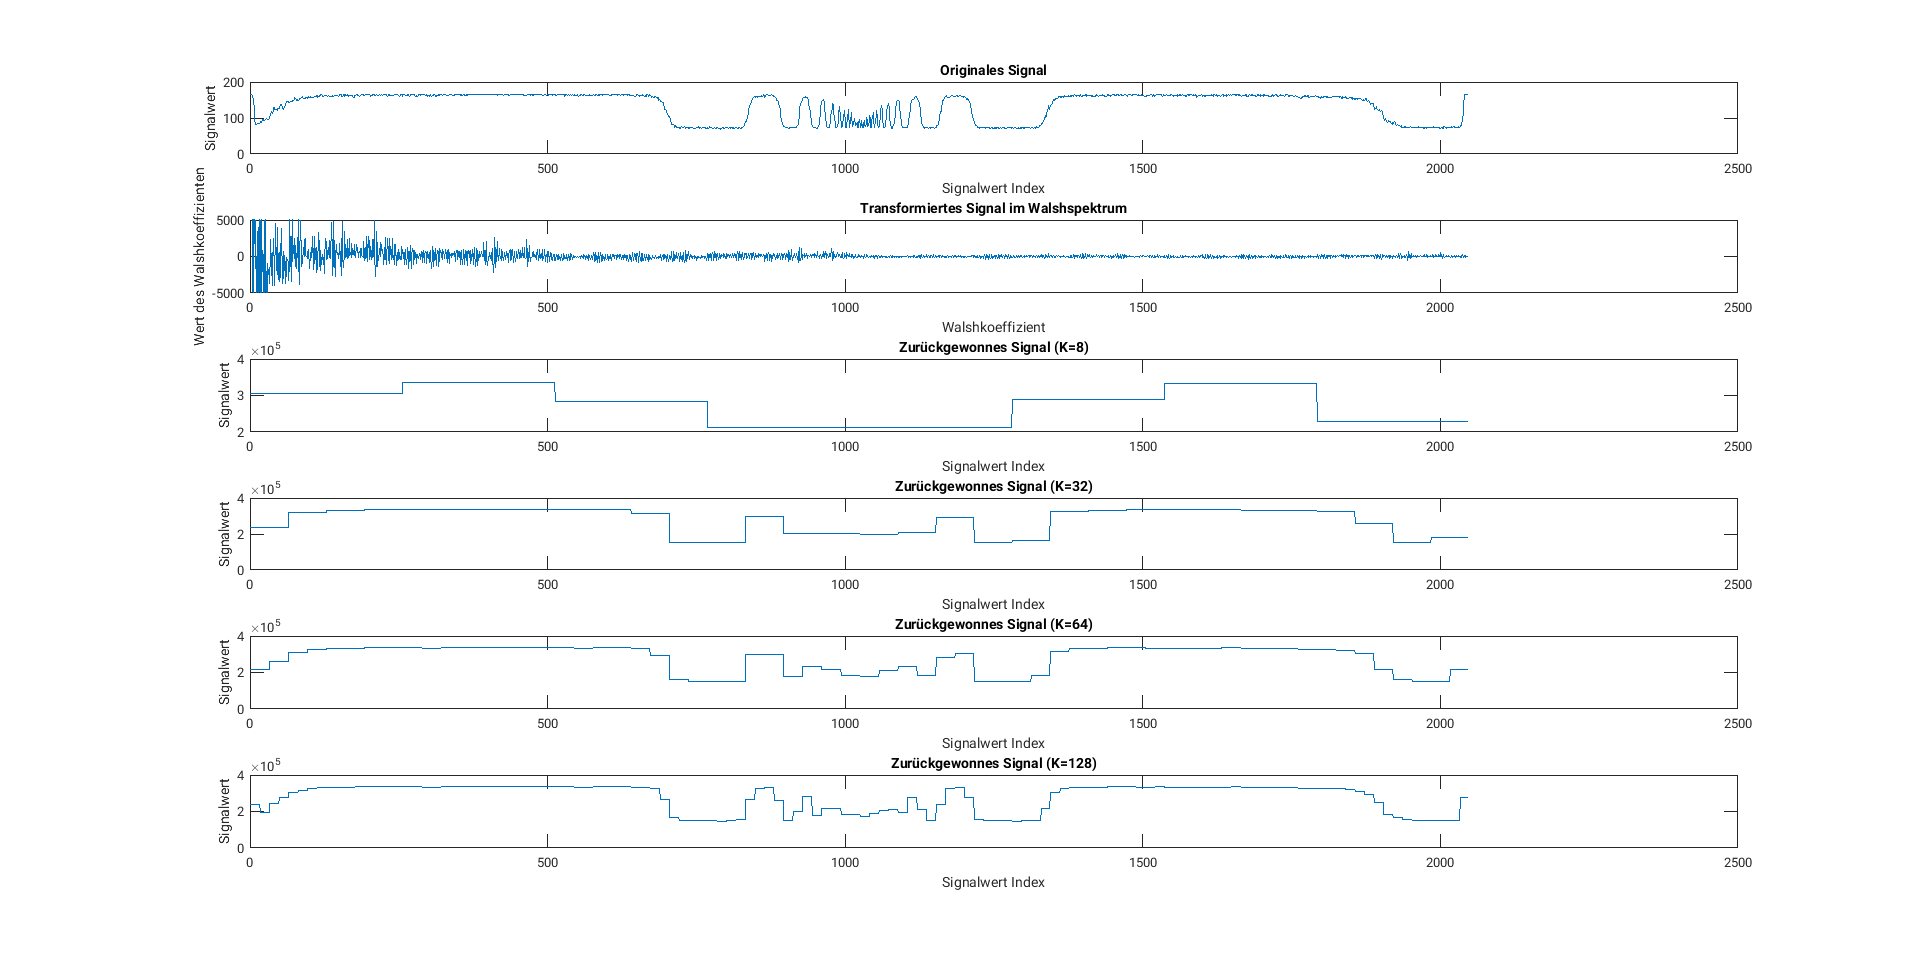
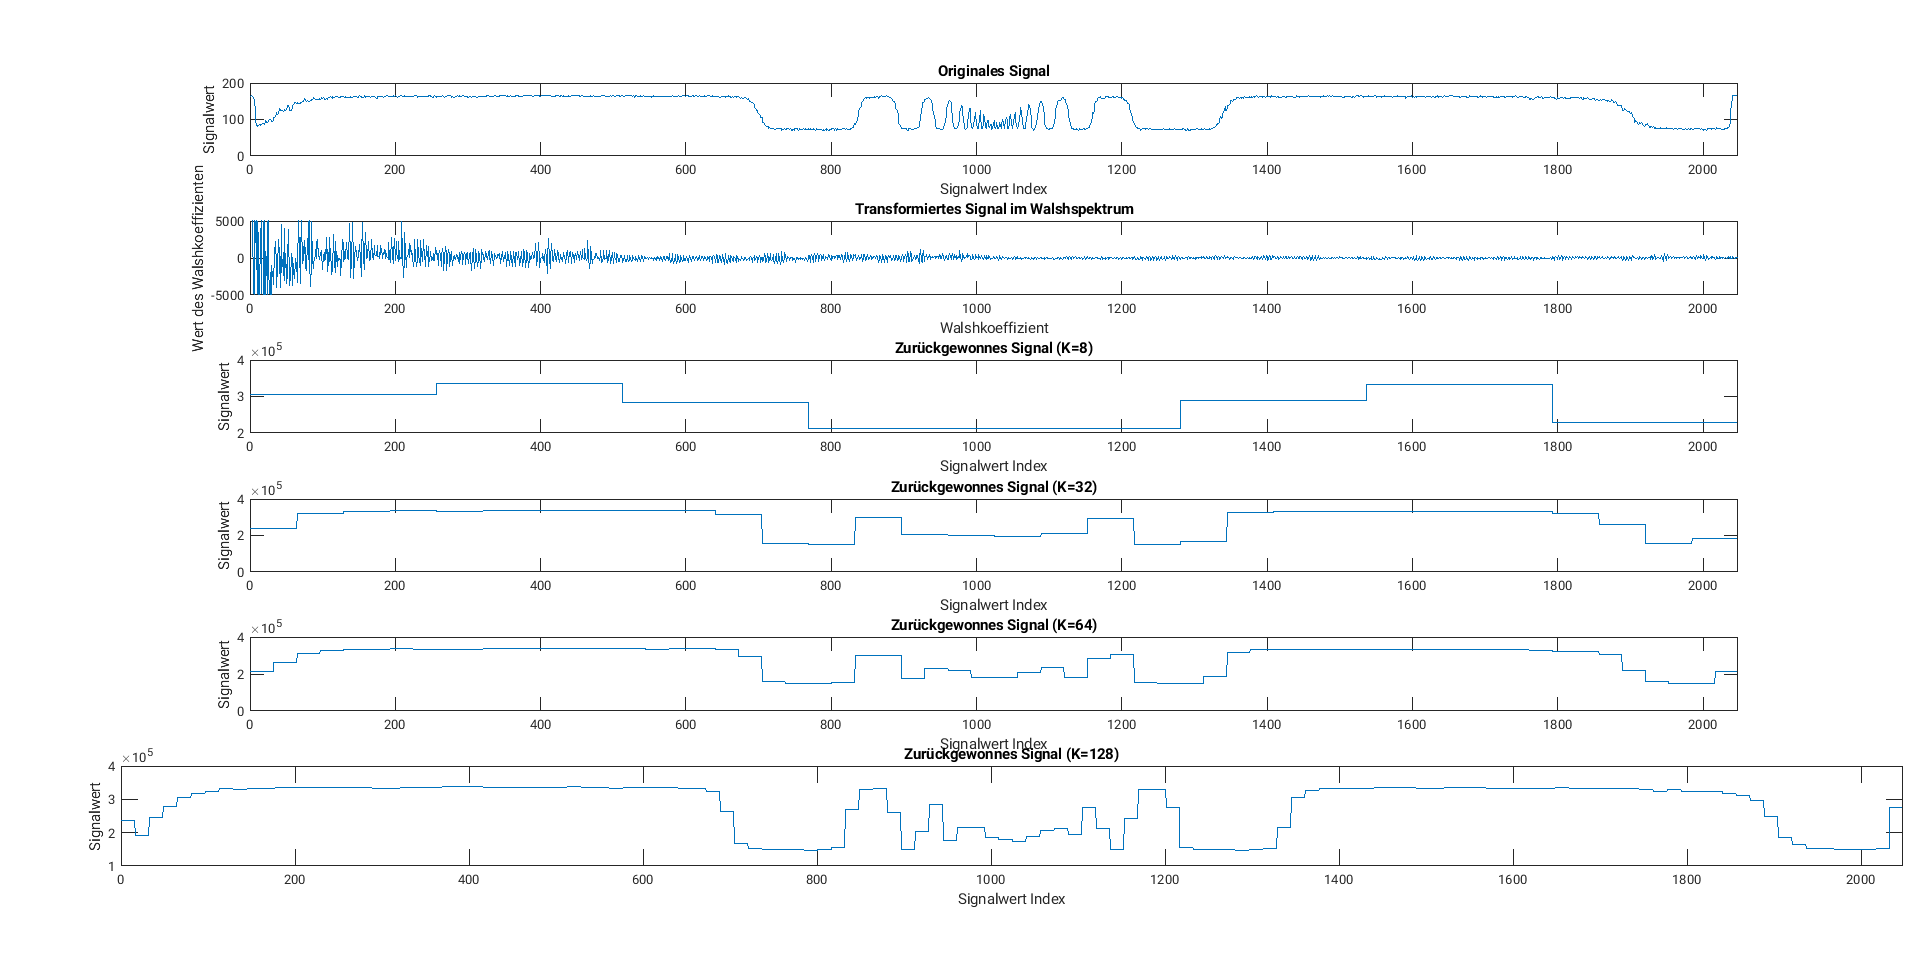
A40.png

diff --git a/MatLab/Scripts/uA40.m b/MatLab/Scripts/uA40.m
@@ -9,6 +9,7 @@ title("Originales Signal");
 xlabel("Signalwert Index");
 ylabel("Signalwert");
 S = DWT * s;
+xlim([0,2048]);
 
 subplot(6, 1, 2);
 plot(x, S);
@@ -16,6 +17,7 @@ title("Transformiertes Signal im Walshspektrum");
 xlabel("Walshkoeffizient");
 ylabel("Wert des Walshkoeffizienten");
 ylim([-5000, 5000]);
+xlim([0,2048]);
 
 K = 8;
 S8 = [S(1:K); zeros(N-K, 1)];
@@ -25,6 +27,7 @@ plot(x, s8);
 title("Zurückgewonnes Signal (K=8)");
 xlabel("Signalwert Index");
 ylabel("Signalwert");
+xlim([0,2048]);
 
 K = 32;
 S32 = [S(1:K); zeros(N-K, 1)];
@@ -34,6 +37,7 @@ plot(x, s32);
 title("Zurückgewonnes Signal (K=32)");
 xlabel("Signalwert Index");
 ylabel("Signalwert");
+xlim([0,2048]);
 
 K = 64;
 S64 = [S(1:K); zeros(N-K, 1)];
@@ -43,6 +47,7 @@ plot(x, s64);
 title("Zurückgewonnes Signal (K=64)");
 xlabel("Signalwert Index");
 ylabel("Signalwert");
+xlim([0,2048]);
 
 K = 128;
 S128 = [S(1:K); zeros(N-K, 1)];
@@ -52,3 +57,4 @@ plot(x, s128);
 title("Zurückgewonnes Signal (K=128)");
 xlabel("Signalwert Index");
 ylabel("Signalwert");
+xlim([0,2048]);
